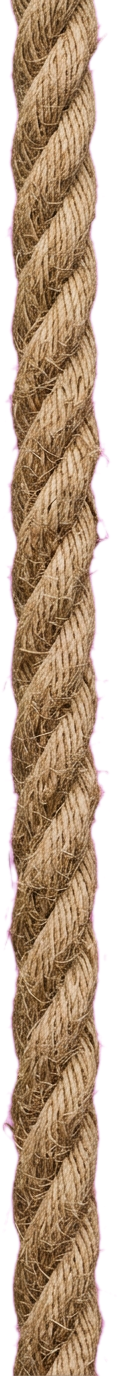
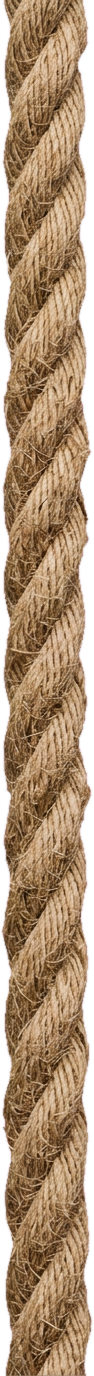
Collage test: better keying, CRT screen layering, stamp
Claude-Session: https://claude.ai/code/session_01M5GA7XdTyYfuEArDzfKL9H

diff --git a/video/src/Collage.tsx b/video/src/Collage.tsx
@@ -123,14 +123,14 @@ export const CollageTest: React.FC = () => {
           transform: `translateY(${(1 - drop) * -900}px) rotate(${swing}deg)`, transformOrigin: '0 0'}}>
           <Img src={K('rope.png')} style={{position: 'absolute', left: -40, top: 0, width: 80, height: 700, objectFit: 'fill'}} />
           <div style={{position: 'absolute', left: -380, top: 640, width: 760}}>
-            <div style={{position: 'absolute', left: '15%', top: '12%', width: '70%', height: '55%', overflow: 'hidden',
+            <div style={{position: 'absolute', zIndex: 2, left: '11.5%', top: '16%', width: '77%', height: '57%', overflow: 'hidden',
               borderRadius: 18, background: '#000'}}>
               <Img src={K('tools/effectcraft-hero.png')} style={{width: '100%', height: '100%', objectFit: 'cover',
                 transform: `scale(${1.15 + f * 0.001})`}} />
               <AbsoluteFill style={{background: 'repeating-linear-gradient(0deg, rgba(0,0,0,0.18) 0 2px, transparent 2px 5px)'}} />
               <AbsoluteFill style={{boxShadow: 'inset 0 0 60px rgba(0,0,0,0.8)'}} />
             </div>
-            <Img src={K('crt.png')} style={{width: 760, position: 'relative'}} />
+            <Img src={K('crt.png')} style={{width: 760, position: 'relative', zIndex: 1}} />
           </div>
         </div>
         <Img src={K('grass.png')} style={{position: 'absolute', bottom: -40 - f * 0.4, left: -60, width: 1200}} />
@@ -168,7 +168,7 @@ export const CollageTest: React.FC = () => {
             <Sfx at={(t as number) + 4} src="pop" vol={0.45} />
           </Drop>
         ))}
-        <Scrappy pose="excited" at={tAe + 10} x={640} y={1170} h={520} />
+        <Scrappy pose="excited" at={tAe + 10} x={700} y={1330} h={480} />
       </AbsoluteFill>
 
       {/* SCENE 3: corkboard, note typed, FREE stamp */}
@@ -182,14 +182,15 @@ export const CollageTest: React.FC = () => {
               {'all 7 apps are\nfree + open source.'.slice(0, Math.max(0, Math.floor((f - s3 - 14) * 1.3)))
                 .split('\n').map((l, i) => <div key={i}>{l}</div>)}
             </div>
-            <Img src={K('pin.png')} style={{position: 'absolute', top: -30, left: 390, width: 90}} />
+            <div style={{position: 'absolute', top: -20, left: 400, width: 64, height: 64, borderRadius: 32,
+              background: 'radial-gradient(circle at 35% 30%, #ff8a8a, #d0141c 55%, #7a0b10)', boxShadow: '6px 10px 10px rgba(0,0,0,0.45)'}} />
           </div>
         </Drop>
         {(() => {
           const st = s3 + 44;
           const s = spring({frame: f - st, fps: 30, config: {damping: 8, stiffness: 260}});
           return f >= st ? (
-            <div style={{position: 'absolute', left: 300, top: 980, transform: `scale(${2.4 - 1.4 * s}) rotate(-12deg)`,
+            <div style={{position: 'absolute', zIndex: 30, left: 250, top: 1000, transform: `scale(${2.4 - 1.4 * s}) rotate(-12deg)`,
               opacity: Math.min(1, s * 2), border: '12px solid #c1121f', borderRadius: 18, padding: '6px 40px',
               fontFamily: 'Anton', fontSize: 170, color: '#c1121f', letterSpacing: 6, mixBlendMode: 'multiply'}}>FREE</div>
           ) : null;

diff --git a/bot/kit.py b/bot/kit.py
@@ -16,16 +16,19 @@ KIT = config.ROOT / "video" / "public" / "kit"
 
 
 def cutout(im: Image.Image) -> Image.Image:
-    a = np.asarray(im.convert("RGB")).astype(np.float32)
-    r, g, b = a[..., 0], a[..., 1], a[..., 2]
-    # magenta-ness: red and blue high, green low
-    mag = np.clip(((r + b) / 2 - g - 60) / 80, 0, 1)
-    alpha = 1 - mag
+    """Key out magenta incl. its darker shadow tones (hue ~280-325 deg, saturated)."""
+    hsv = np.asarray(im.convert("RGB").convert("HSV")).astype(np.float32)
+    h, sat, v = hsv[..., 0] * 360 / 255, hsv[..., 1] / 255, hsv[..., 2] / 255
+    hue_in = np.clip(1 - np.maximum(np.maximum(275 - h, h - 330), 0) / 12, 0, 1)
+    key = hue_in * np.clip((sat - 0.22) / 0.2, 0, 1)
+    alpha = 1 - key
     am = Image.fromarray((alpha * 255).astype(np.uint8)).filter(ImageFilter.MinFilter(3))
-    am = am.filter(ImageFilter.GaussianBlur(0.8))
-    # de-spill: pull leftover magenta out of the edges
-    g2 = np.maximum(g, np.minimum(r, b) * (1 - alpha) + g * alpha)
-    rgb = np.stack([np.minimum(r, g2 + 40 + (r - g2) * alpha), g, np.minimum(b, g2 + 40 + (b - g2) * alpha)], -1)
+    am = am.filter(ImageFilter.GaussianBlur(0.7))
+    rgb = np.asarray(im.convert("RGB")).astype(np.float32)
+    # de-spill: on semi-transparent edges, clamp red/blue down toward green
+    k = (1 - alpha)[..., None]
+    g = rgb[..., 1:2]
+    rgb = rgb * (1 - k) + np.concatenate([np.minimum(rgb[..., :1], g + 20), g, np.minimum(rgb[..., 2:], g + 20)], -1) * k
     out = Image.fromarray(np.clip(rgb, 0, 255).astype(np.uint8)).convert("RGBA")
     out.putalpha(am)
     return out.crop(out.getbbox() or (0, 0, out.width, out.height))
